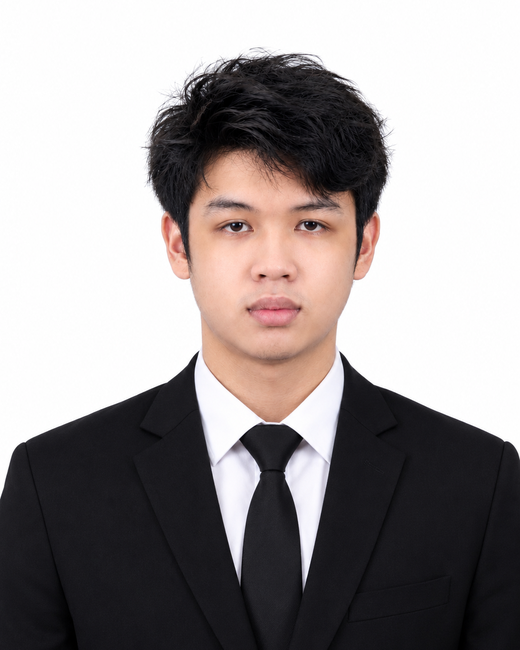
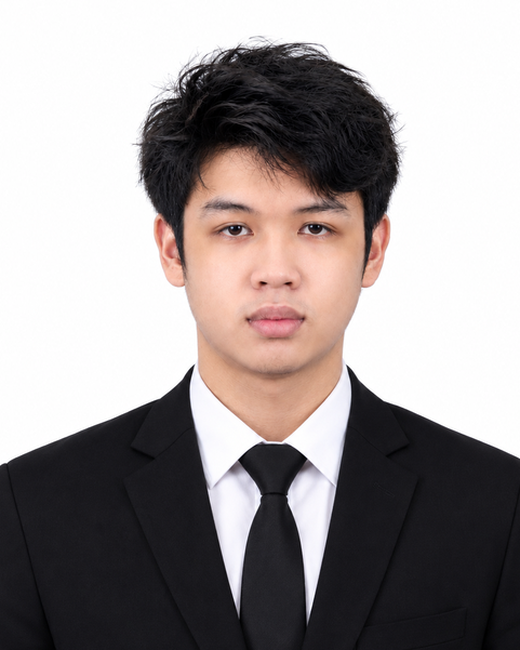
web: color team photos, update Sonavin, balance Thavrith and Sereyrith sizes

Changed region(s): [[0.0, 0.0615, 1.0, 0.9846], [0.1231, 0.9231, 0.1538, 1.0], [0.4923, 0.9846, 0.5231, 1.0]]

diff --git a/src/views/About.vue b/src/views/About.vue
@@ -154,8 +154,7 @@ const onImgError = (e) => { e.target.closest('.member-photo').classList.add('no-
 .member:hover { border-color: var(--cyan); transform: translateY(-4px); }
 .member-photo { position: relative; aspect-ratio: 4 / 5; background: var(--surface-2); }
 .member-photo img { width: 100%; height: 100%; object-fit: cover; object-position: 50% 32%;
-  filter: grayscale(100%); transition: filter .3s ease; display: block; }
-.member:hover .member-photo img { filter: grayscale(0); }
+  display: block; }
 .member-initials { position: absolute; inset: 0; display: none; place-items: center;
   font-family: var(--font-display); font-weight: 700; font-size: 3rem; color: #04141a; background: var(--grad); }
 .member-photo.no-img img { display: none; }
